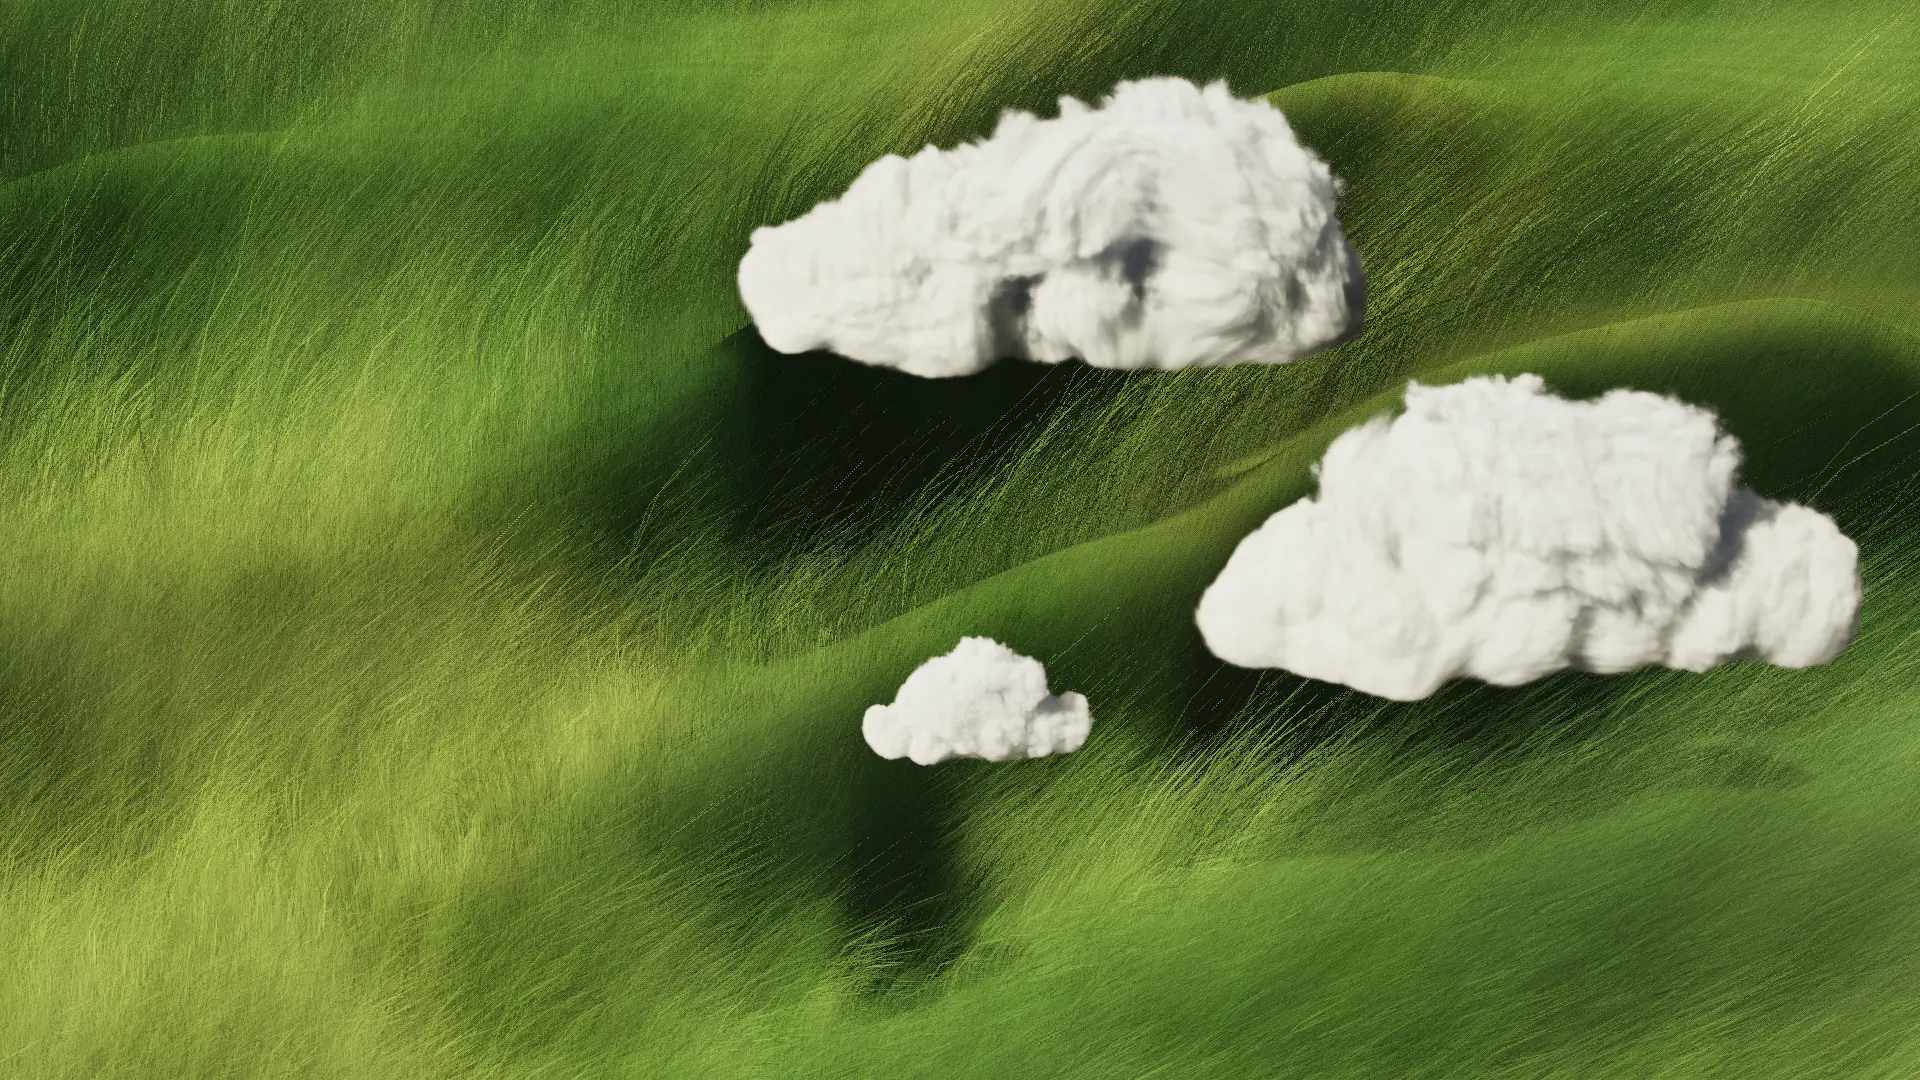
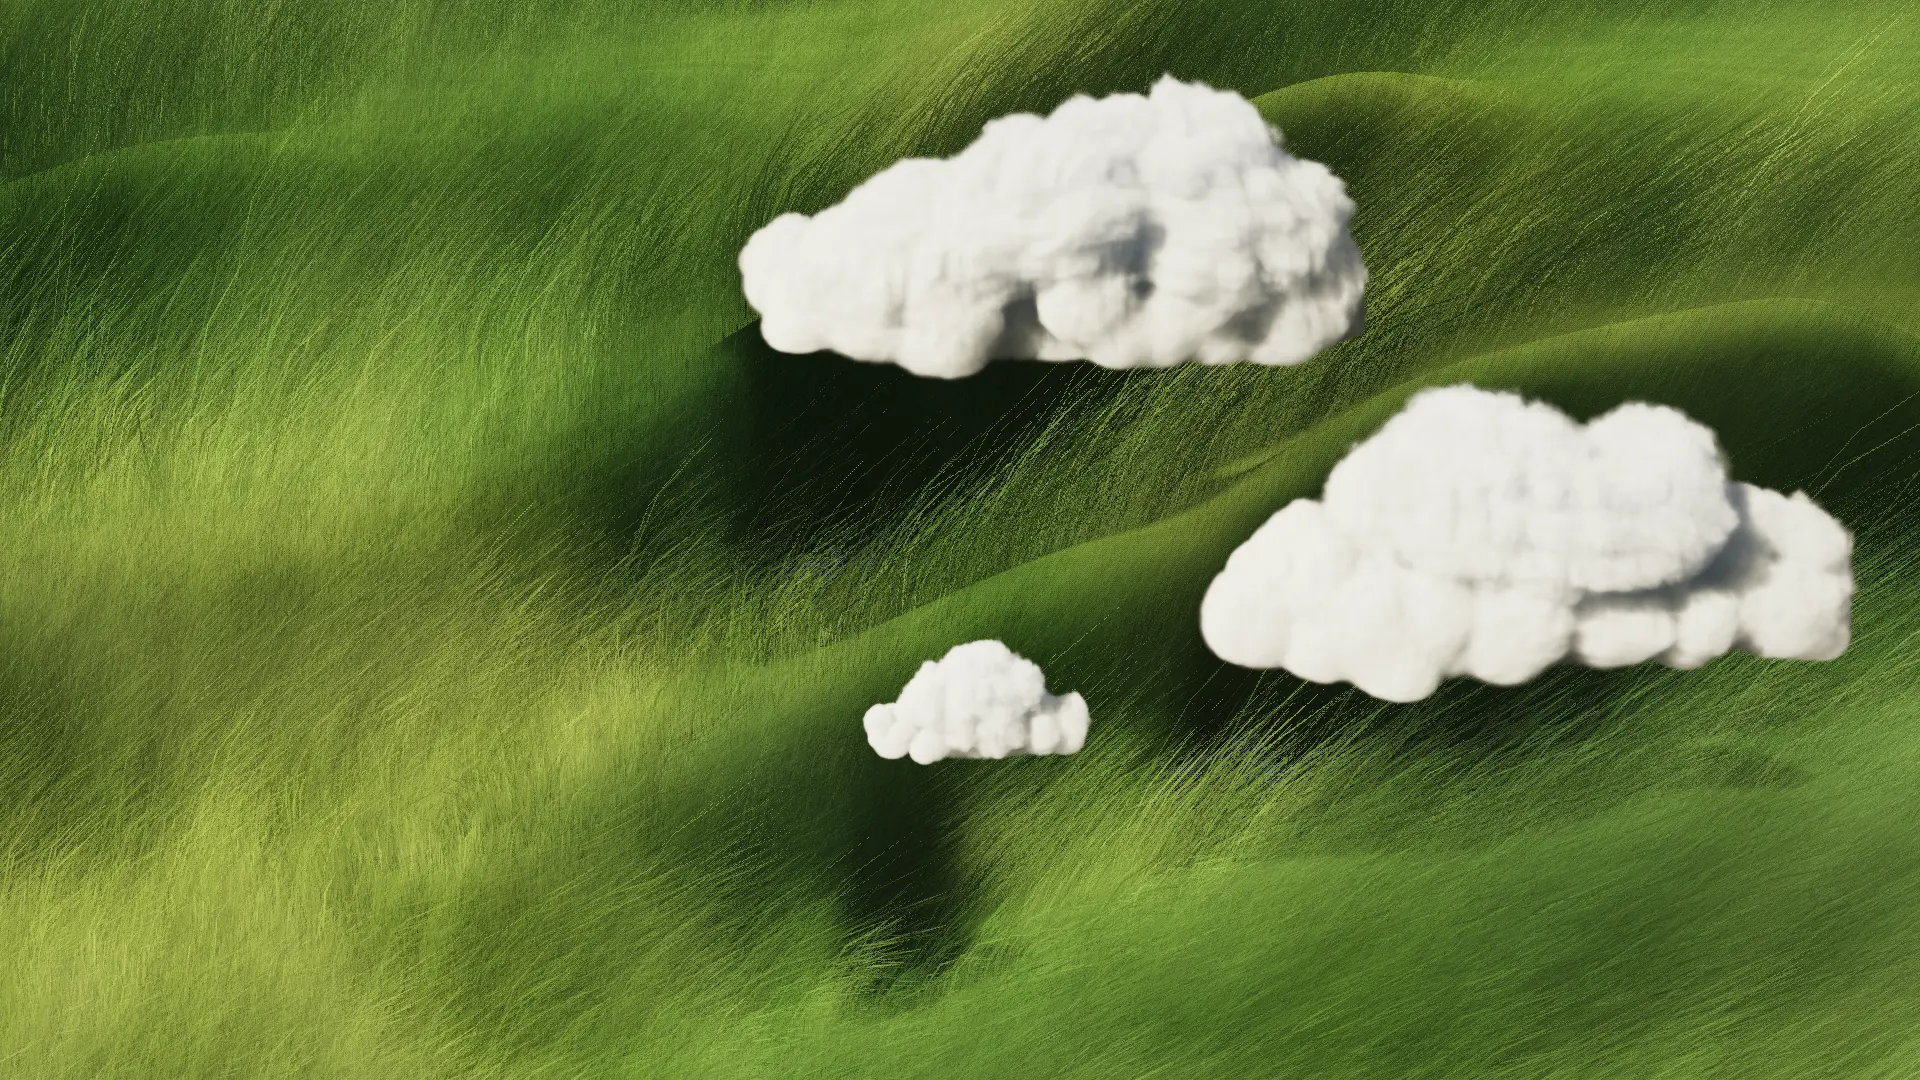
feat: portfolio clouds with distinct cauliflower heads
Cloud blend and warp become per-scene style; the portfolio keeps each
billow distinct and unstreaked. Sunlit keeps its look. Stills refreshed.

diff --git a/src/scene/Clouds.ts b/src/scene/Clouds.ts
@@ -47,6 +47,10 @@ export interface CloudStyle {
   billows?: number;
   /** Multiplies the sky and ground fill: lower keeps grey in the creases. */
   ambient?: number;
+  /** Sharpness of the union between heads: higher keeps each billow distinct (the shadow bake keeps 10). */
+  blend?: number;
+  /** How far the slow noise warp drags the billows; high values streak them. */
+  warp?: number;
 }
 
 /** Longest side of one cloud's baked image, in pixels: they are soft, so this is plenty. */
@@ -94,7 +98,6 @@ float billow(vec3 p) {
   for (int i = 0; i < 5; i++) { s += a * (1.0 - abs(noise3(p) * 2.0 - 1.0)); p = p * 2.07 + vec3(3.1, 1.7, 5.3); a *= 0.55; }
   return s / 1.0;
 }
-const float BLEND = 10.0;
 const float SUN_GAIN = 0.7;
 const float AMB_GAIN = 0.42;
 uniform float uGain;
@@ -103,17 +106,19 @@ uniform float uFray;
 uniform float uNoiseScale;
 uniform float uTaper;
 uniform float uAmbient;
+uniform float uBlend;
+uniform float uWarp;
 float shape(vec3 p) {
   // a smooth union, so the masses merge into one body instead of reading as balls
   vec3 dd = p - uDomeC;
   float narrow = 1.0 - uTaper * clamp(dd.y / uDomeR.y, 0.0, 1.0);
-  float sum = exp(BLEND * (1.0 - length(dd / (uDomeR * vec3(narrow, 1.0, narrow)))));
+  float sum = exp(uBlend * (1.0 - length(dd / (uDomeR * vec3(narrow, 1.0, narrow)))));
   for (int i = 0; i < ${MAX_LUMPS}; i++) {
     if (i >= uCount) break;
     vec4 l = uLumps[i];
-    sum += exp(BLEND * (1.0 - length(p - l.xyz) / l.w));
+    sum += exp(uBlend * (1.0 - length(p - l.xyz) / l.w));
   }
-  float s = max(log(max(sum, 1e-6)) / BLEND, 0.0);
+  float s = max(log(max(sum, 1e-6)) / uBlend, 0.0);
   float b = smoothstep(uBoxMin.y, uBoxMin.y + 0.35, p.y);
   return s * b;
 }
@@ -122,7 +127,7 @@ float density(vec3 p, bool fine) {
   if (s <= 0.0) return 0.0;
   vec3 q = p * uNoiseScale + uSeed;
   // a slow warp, so billows sprawl and lean instead of sitting on a grid of bumps
-  q += vec3(noise3(p * 0.35 + 7.0), noise3(p * 0.35 + 19.0), noise3(p * 0.35 + 31.0)) * 1.6 - 0.8;
+  q += vec3(noise3(p * 0.35 + 7.0), noise3(p * 0.35 + 19.0), noise3(p * 0.35 + 31.0)) * (2.0 * uWarp) - uWarp;
   // erode the masses, harder near their rim and less on the flat base
   float hf = clamp((p.y - uBoxMin.y) / (uBoxMax.y - uBoxMin.y), 0.0, 1.0);
   // billows bite into the upper surface; the flat base is cut cleaner, and wispier
@@ -265,6 +270,8 @@ export class Clouds {
         uNoiseScale: { value: 1.25 },
         uTaper: { value: 0.3 },
         uAmbient: { value: style.ambient ?? 1 },
+        uBlend: { value: style.blend ?? 10 },
+        uWarp: { value: style.warp ?? 0.8 },
         uDomeC: { value: new Vector3() },
         uDomeR: { value: new Vector3(1, 1, 1) },
       },

diff --git a/src/scene/profiles.ts b/src/scene/profiles.ts
@@ -185,7 +185,7 @@ export const PORTFOLIO: SceneProfile = {
   // softer and less bright than Sunlit's: feathered rims, and whites that keep their modelling
   // modelled from the upper left, as the reference's are: each head keeps a grey crease on its lower right
   cloudKey: normalize([-0.6, 0.62, 0.3]),
-  cloudStyle: { gain: 0.42, ambient: 0.8, edge: 5, fray: 0.07, billows: 14 },
+  cloudStyle: { gain: 0.5, ambient: 1.0, edge: 4.5, fray: 0.04, billows: 9, blend: 18, warp: 0.25 },
   // placed from the reference's layout at 16:9: large upper middle, broad middle right, small lower middle
   clouds: [
     { x: 1.6, y: 9, z: -5.4, width: 22, depth: 7, height: 6.6, seed: 41, taper: 0.55, core: 0.9 },

diff --git a/PROGRESS.md b/PROGRESS.md
@@ -195,7 +195,13 @@ Add `bare` to see the land alone.
   through the longer grass.
 - Mean regional luminance gap to the target went from 21.6 to 10.7 (`scripts/regions.mjs`).
 
+### Cloud pass (milestone 4, second round)
+- The woolly, streaked look came from the noise warp stretching the billows, and from the union blending the heads
+  into one mass. Both are now per-scene (`warp`, `blend`). The portfolio uses a light warp (0.25) and a sharp union
+  (18), so each head stays a distinct rounded billow with a grey crease. Sunlit keeps its defaults (0.8, 10).
+
 ### Remaining visual differences (largest first)
-1. Clouds: woolly and a little boxy beside the target's crisp cauliflower heads and wispy tails.
+1. Clouds: the target's tails are wispier and its undersides flatter and greyer; the middle-right cloud's right end is
+   still a little boxy.
 2. The target's glass has a slightly organic, liquid edge with bright blobs; ours is a clean rounded rectangle.
 3. The small white wildflowers at the lower left are not there.
